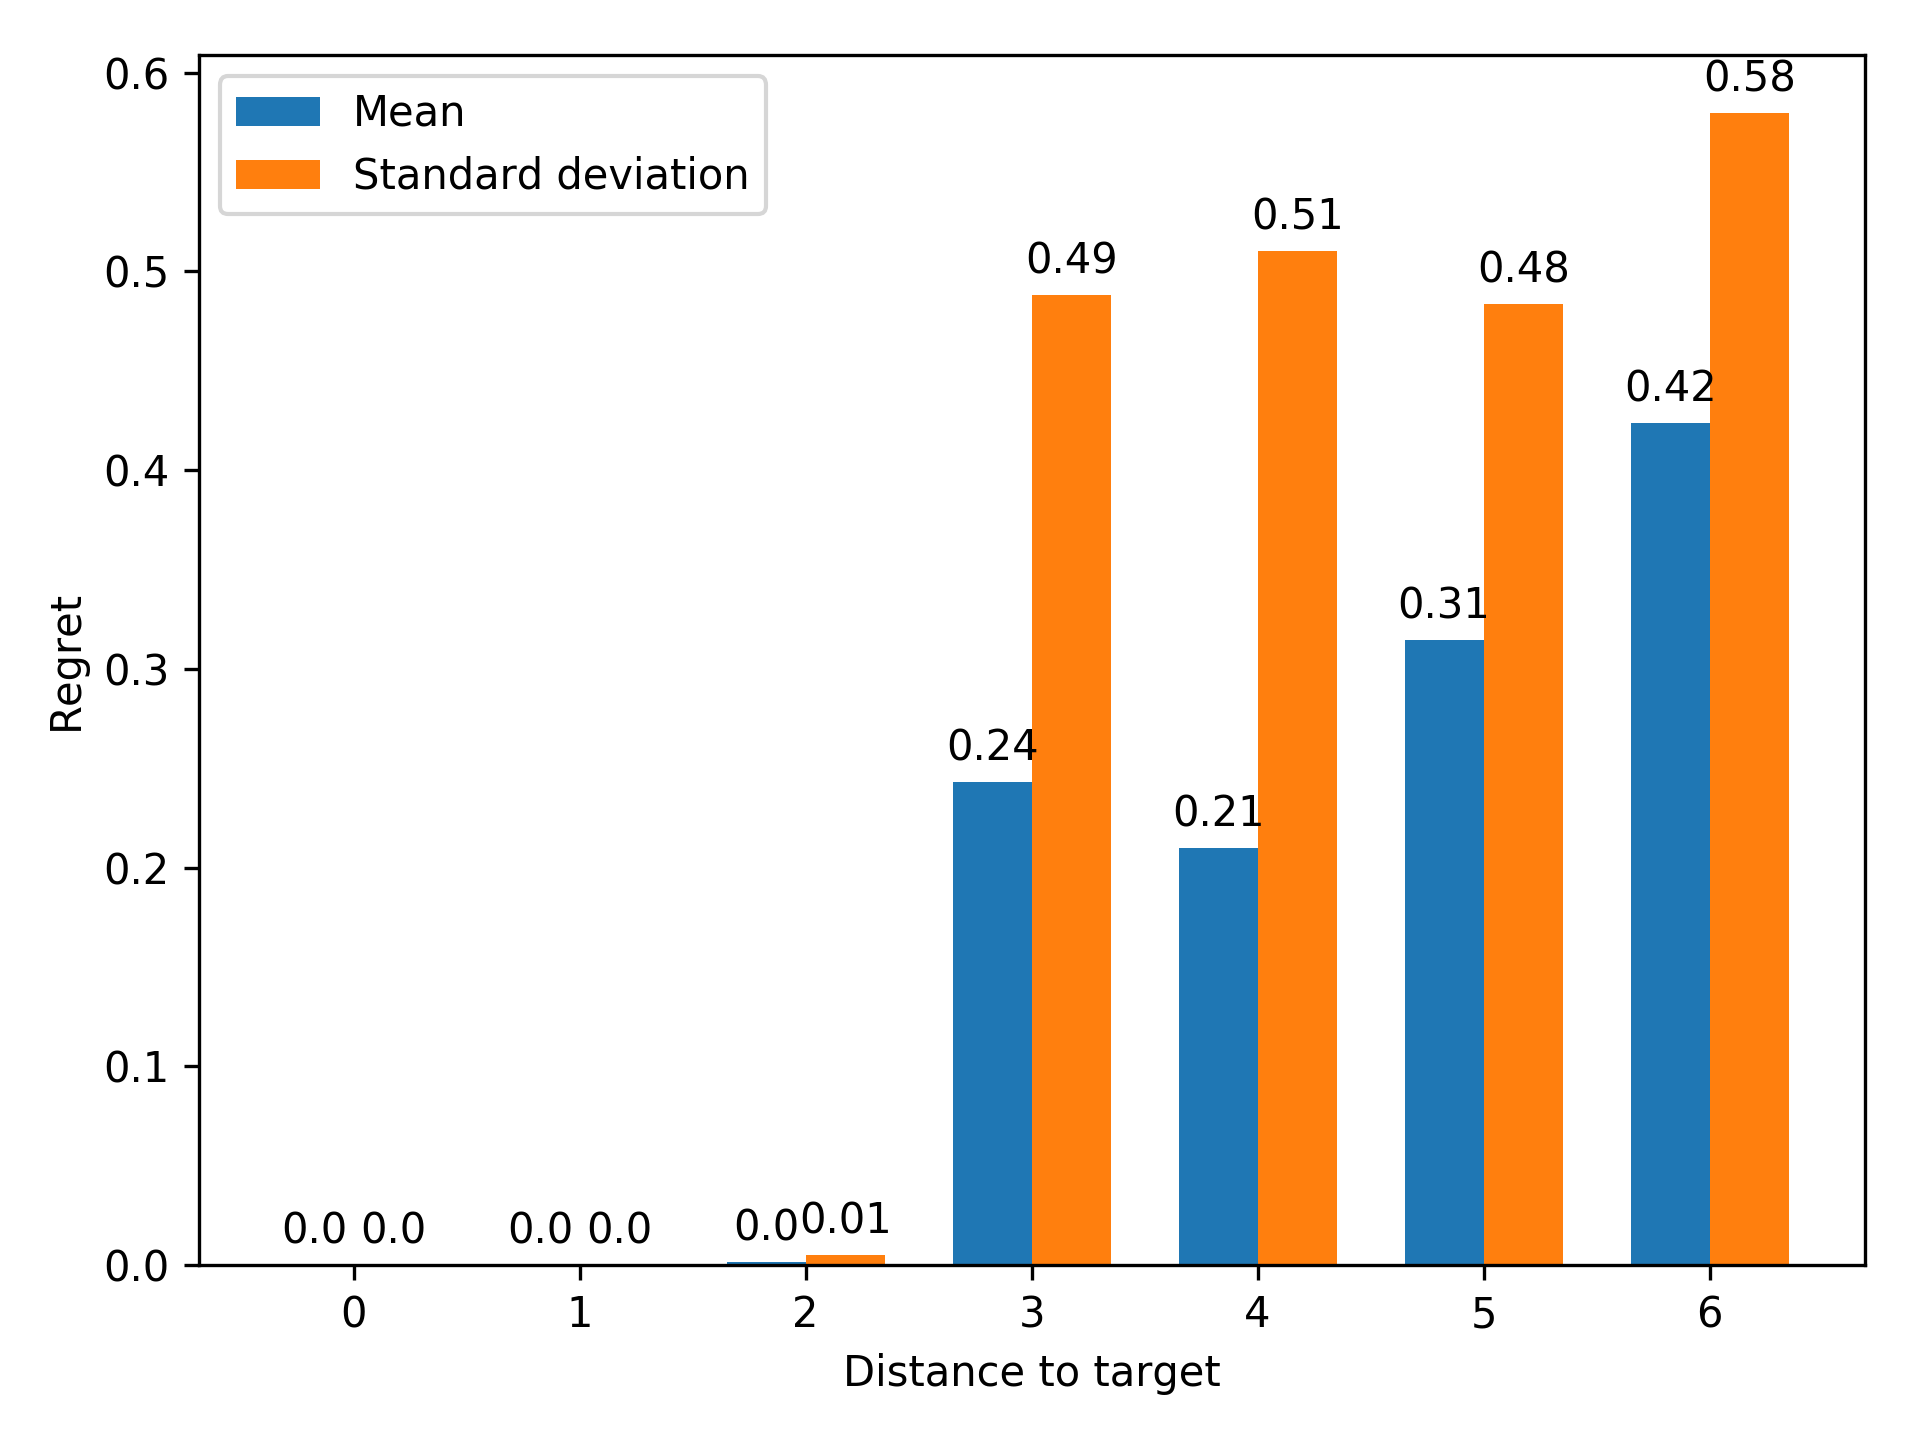
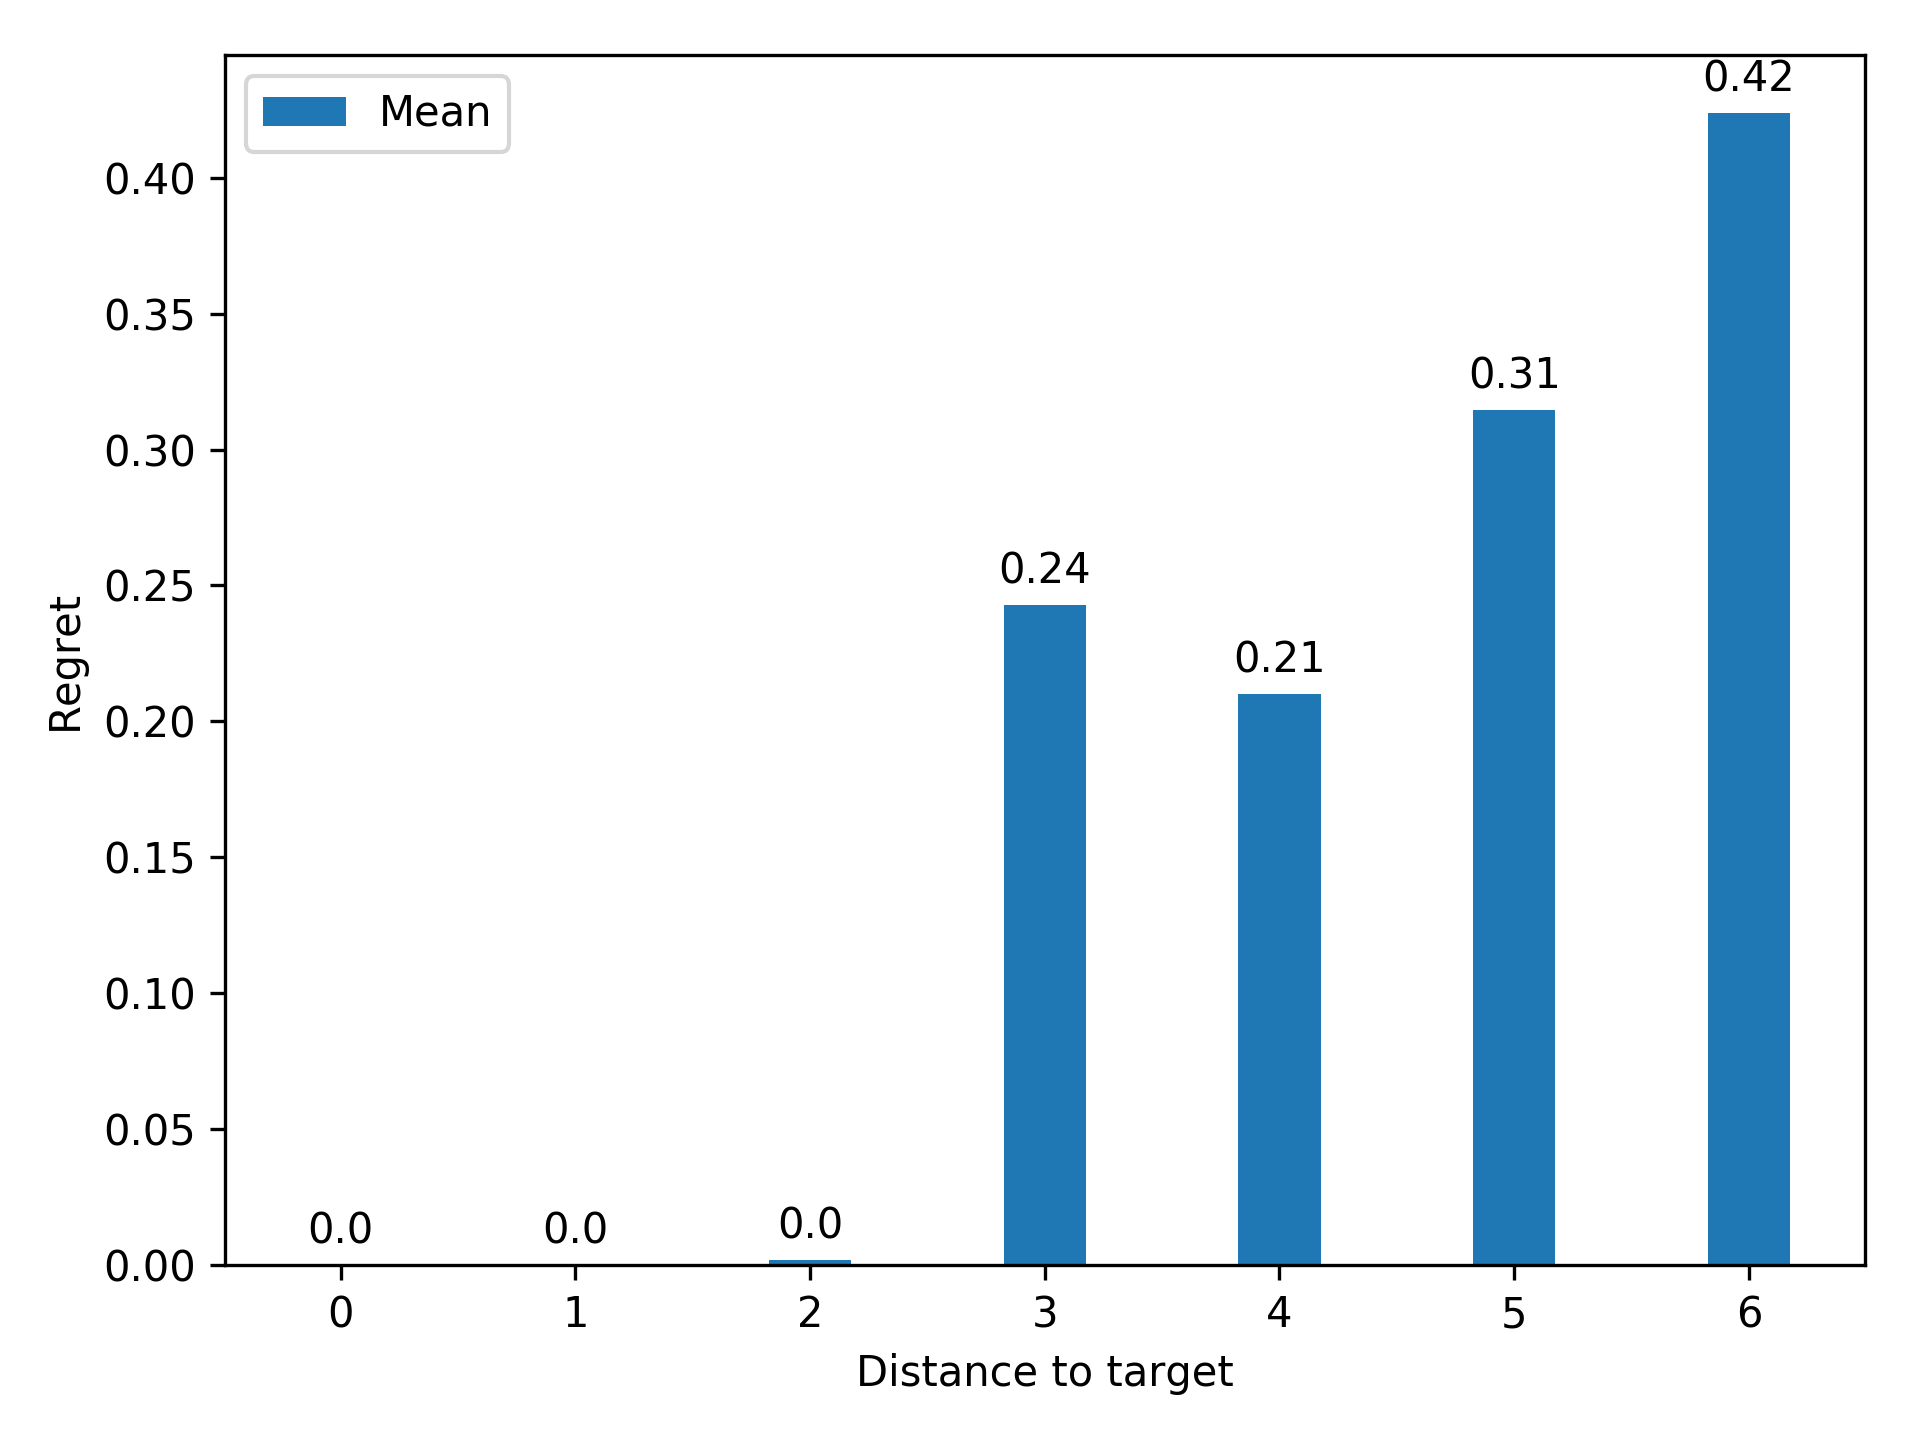
perform chi2 test

diff --git a/analysis_graph_regret.py b/analysis_graph_regret.py
@@ -1,8 +1,9 @@
 import numpy as np
 import networkx as nx
 import matplotlib.pyplot as plt
+from scipy.stats import chi2_contingency
 import matplotlib.cbook as cbook
-import seaborn as sns
+# import seaborn as sns
 
 nstates = 8
 static_cost = np.load('graph_static_cost.npy')
@@ -22,8 +23,7 @@ x = np.arange(len(labels))  # the label locations
 width = 0.35  # the width of the bars
 
 fig, ax = plt.subplots()
-rects1 = ax.bar(x - width/2, regret_mean, width, label='Mean')
-rects2 = ax.bar(x + width/2, regret_std, width, label='Standard deviation')
+rects1 = ax.bar(x, regret_mean, width, label='Mean')
 
 # Add some text for labels, title and custom x-axis tick labels, etc.
 ax.set_ylabel('Regret')
@@ -45,11 +45,11 @@ def autolabel(rects):
 
 
 autolabel(rects1)
-autolabel(rects2)
 
 fig.tight_layout()
 plt.savefig('regret_bar.png', format='png', dpi=300)
 plt.show()
+
 # stats = cbook.boxplot_stats(regret, whis=1.5, labels=range(7))
 # fig1, ax1 = plt.subplots()
 # bp = ax1.boxplot(regret, showmeans=True, labels=range(7))
@@ -110,3 +110,48 @@ plt.show()
 # print np.max(dynamic_cost - static_cost)
 # print np.argmax(dynamic_cost - static_cost)
 
+optimal_success = (dynamic_cost[:, [7, 13, 9, 11, 10, 0, 19]] - 1) / (np.exp(1) - 1)
+optimal_success_mean = np.mean(optimal_success, axis=0)
+
+online_success = (static_cost[:, [7, 13, 9, 11, 10, 0, 19]] - 1) / (np.exp(1) - 1)
+online_success_mean = np.mean(online_success, axis=0)
+
+# fig, ax = plt.subplots()
+# rects1 = ax.bar(x - width/2, optimal_success_mean, width, label='Optimal')
+# rects2 = ax.bar(x + width/2, online_success_mean, width, label='Online')
+#
+# # Add some text for labels, title and custom x-axis tick labels, etc.
+# ax.set_ylabel('Success rate')
+# ax.set_xlabel('Distance to target')
+# ax.set_xticks(x)
+# ax.set_xticklabels(labels)
+# ax.set_ylim(0, 1.25)
+# ax.legend(loc='upper left')
+#
+#
+# def autolabel(rects):
+#     """Attach a text label above each bar in *rects*, displaying its height."""
+#     for rect in rects:
+#         height = rect.get_height()
+#         ax.annotate('{}'.format(np.round(height, 2)),
+#                     xy=(rect.get_x() + rect.get_width() / 2, height),
+#                     xytext=(0, 3),  # 3 points vertical offset
+#                     textcoords="offset points",
+#                     ha='center', va='bottom')
+#
+#
+# autolabel(rects1)
+# autolabel(rects2)
+#
+# fig.tight_layout()
+# plt.savefig('success_rate.png', format='png', dpi=300)
+# plt.show()
+#
+# #online_success_mean = online_success_mean[2: ]
+# obs = np.vstack((online_success_mean, 1 - online_success_mean))*100
+# obs = np.round(obs)
+# #obs = np.array([[10, 20, 30, 40, 50], [50, 40, 30, 20, 10]])
+# print obs
+# chi2, p, dof, ex = chi2_contingency(obs)
+# print p
+# print dof
